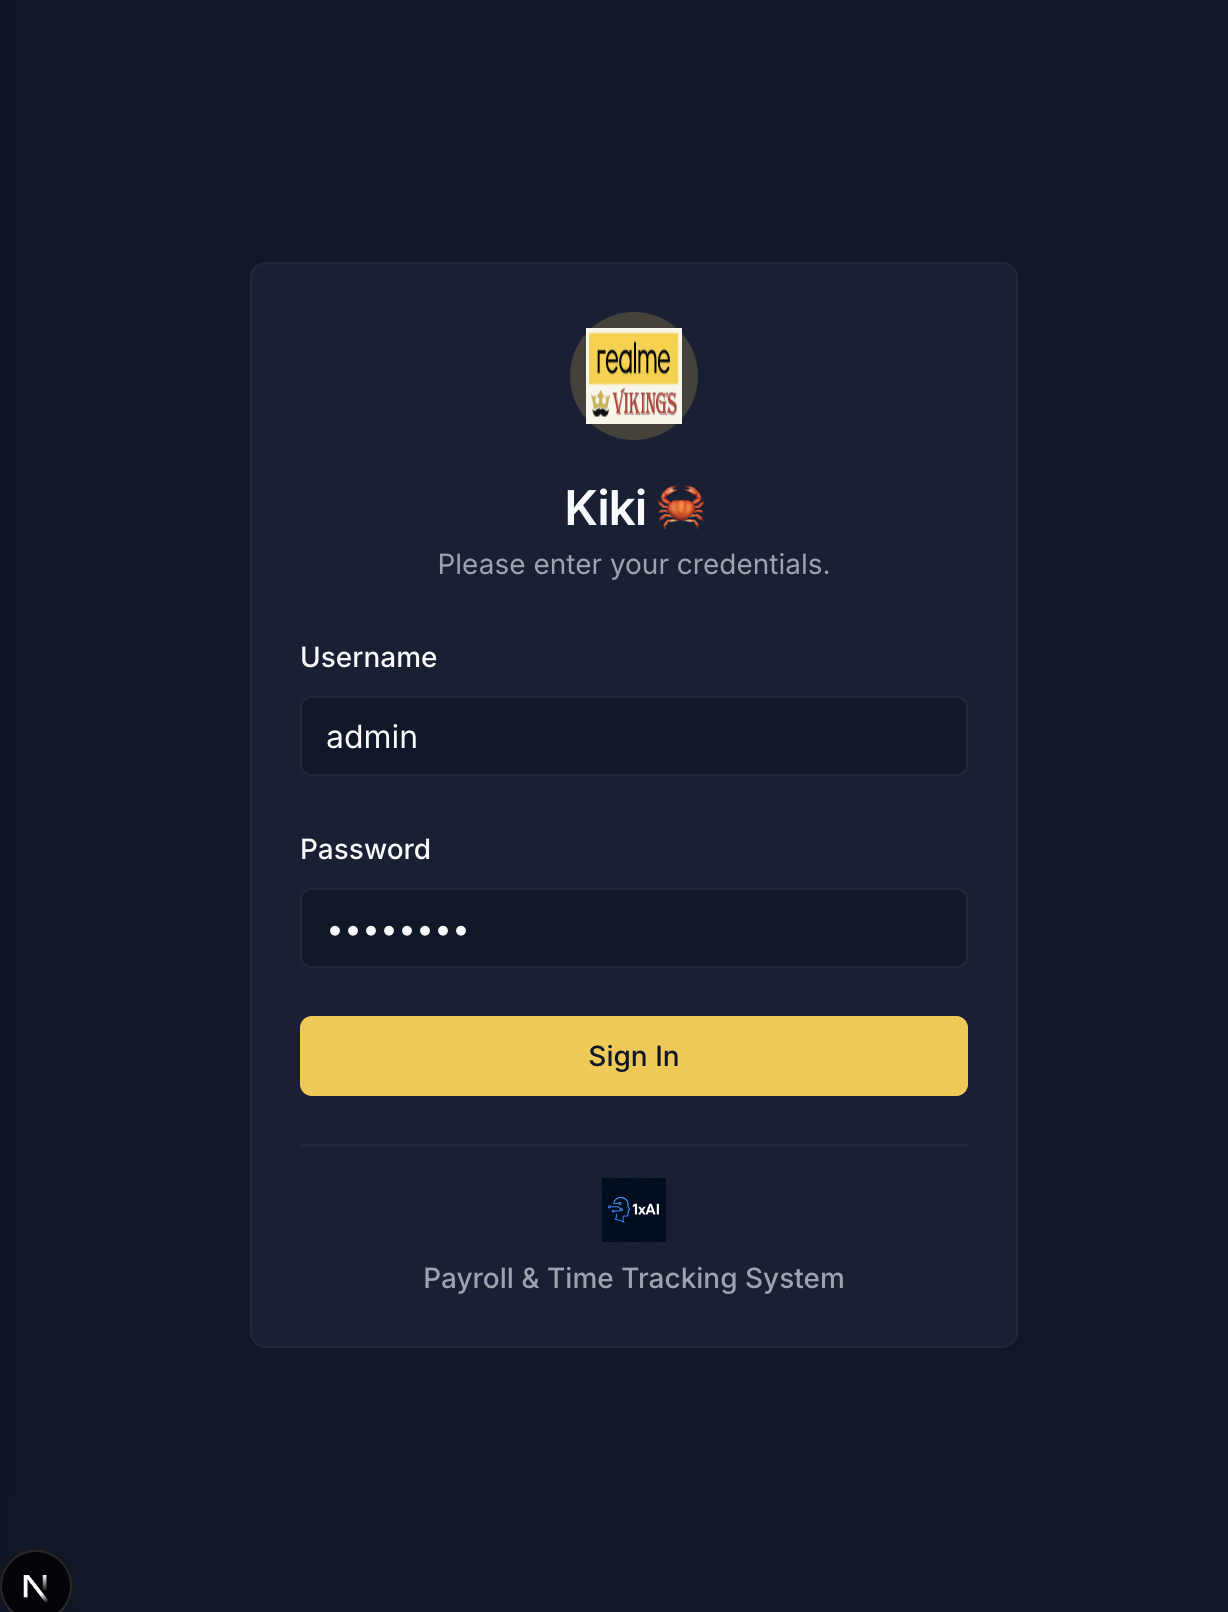
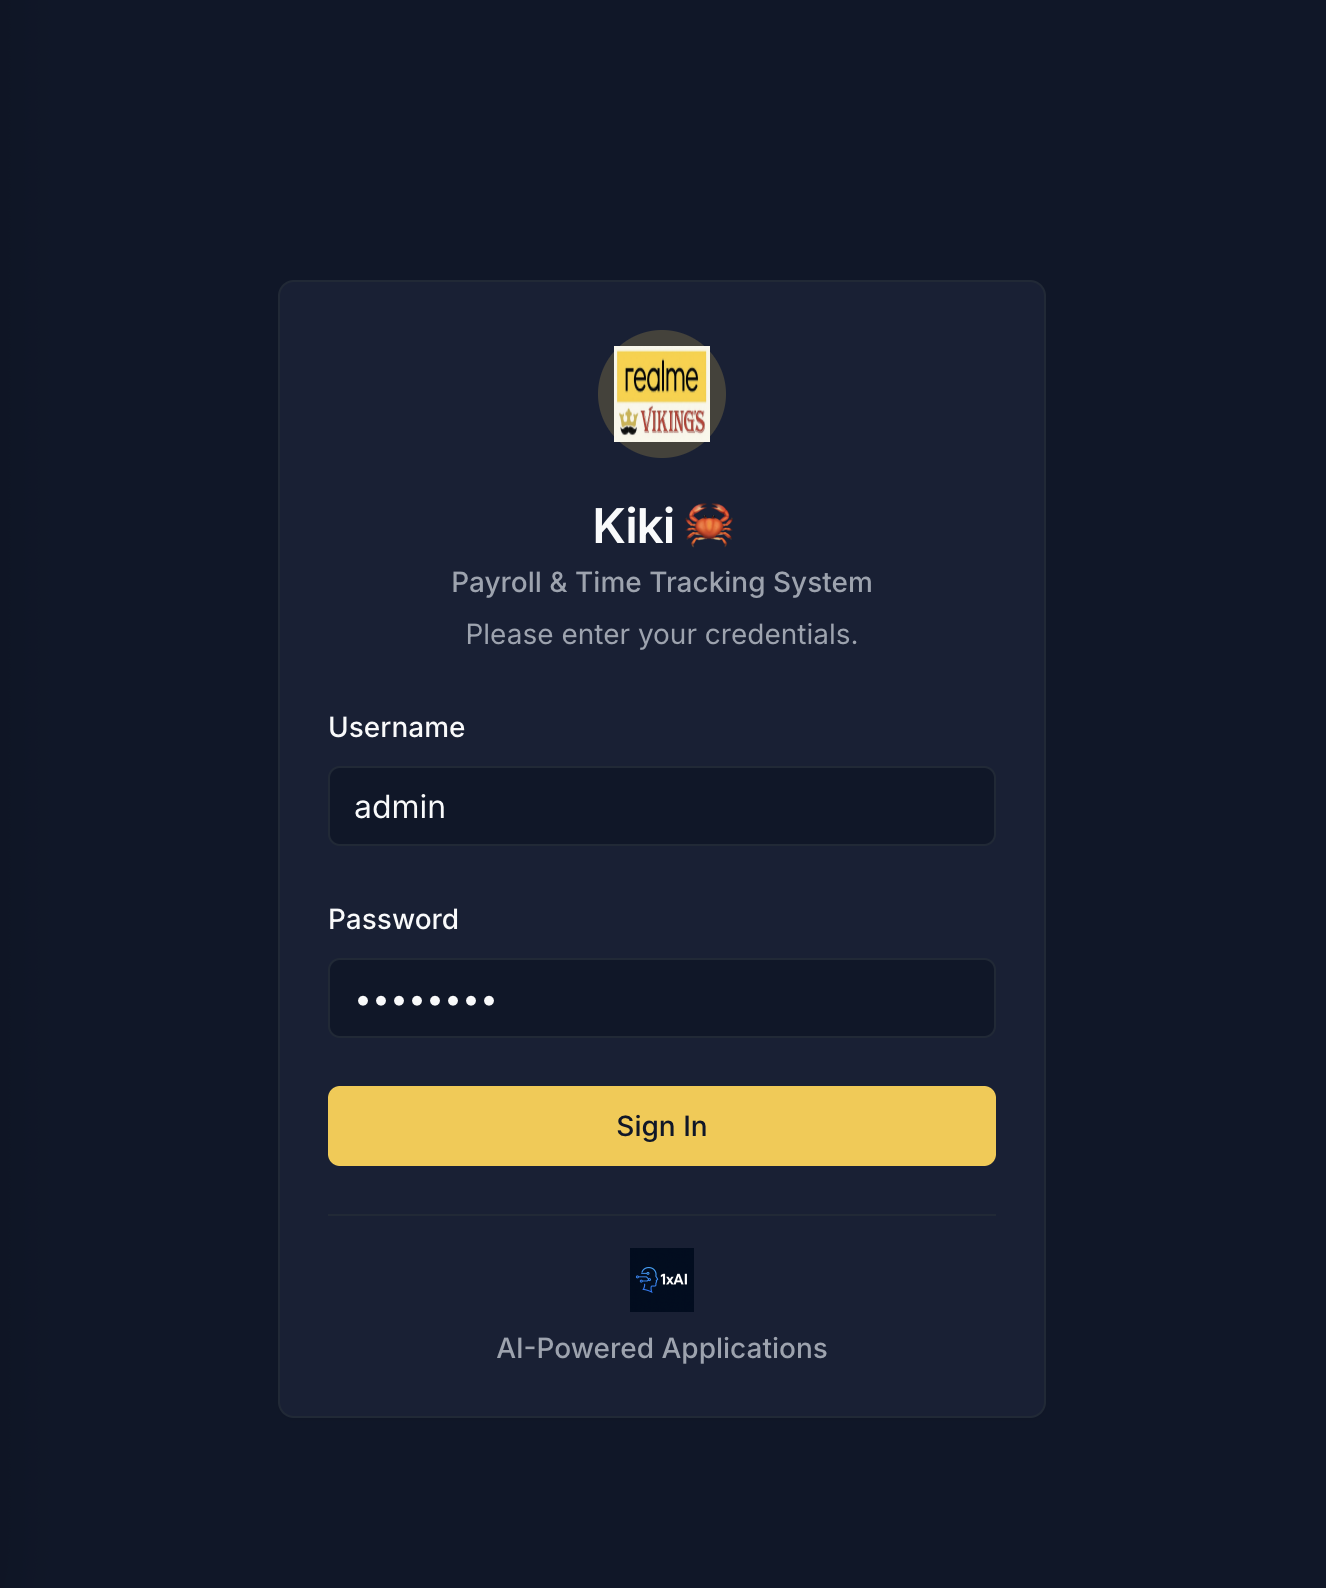
Update ReadMe

diff --git a/src/app/login/page.tsx b/src/app/login/page.tsx
@@ -68,7 +68,8 @@ export default function LoginPage() {
             <img src="/images/vikings.png" alt="Kiki Logo" className="h-12 w-12" />
           </div>
           <CardTitle>Kiki 🦀</CardTitle>
-          <CardDescription>Please enter your credentials.</CardDescription>
+          <p className="text-sm text-muted-foreground font-medium">Payroll & Time Tracking System</p>
+          <CardDescription className="mt-2">Please enter your credentials.</CardDescription>
         </CardHeader>
         <CardContent className="space-y-6">
           <Form {...form}>
@@ -106,7 +107,7 @@ export default function LoginPage() {
           </Form>
           <div className="pt-4 border-t text-center">
             <img src="/images/1xAI.PNG" alt="1xAI Logo" className="h-8 mx-auto mb-2" />
-            <p className="text-sm text-muted-foreground font-medium">Payroll & Time Tracking System</p>
+            <p className="text-sm text-muted-foreground font-medium">AI-Powered Applications</p>
           </div>
         </CardContent>
       </Card>
